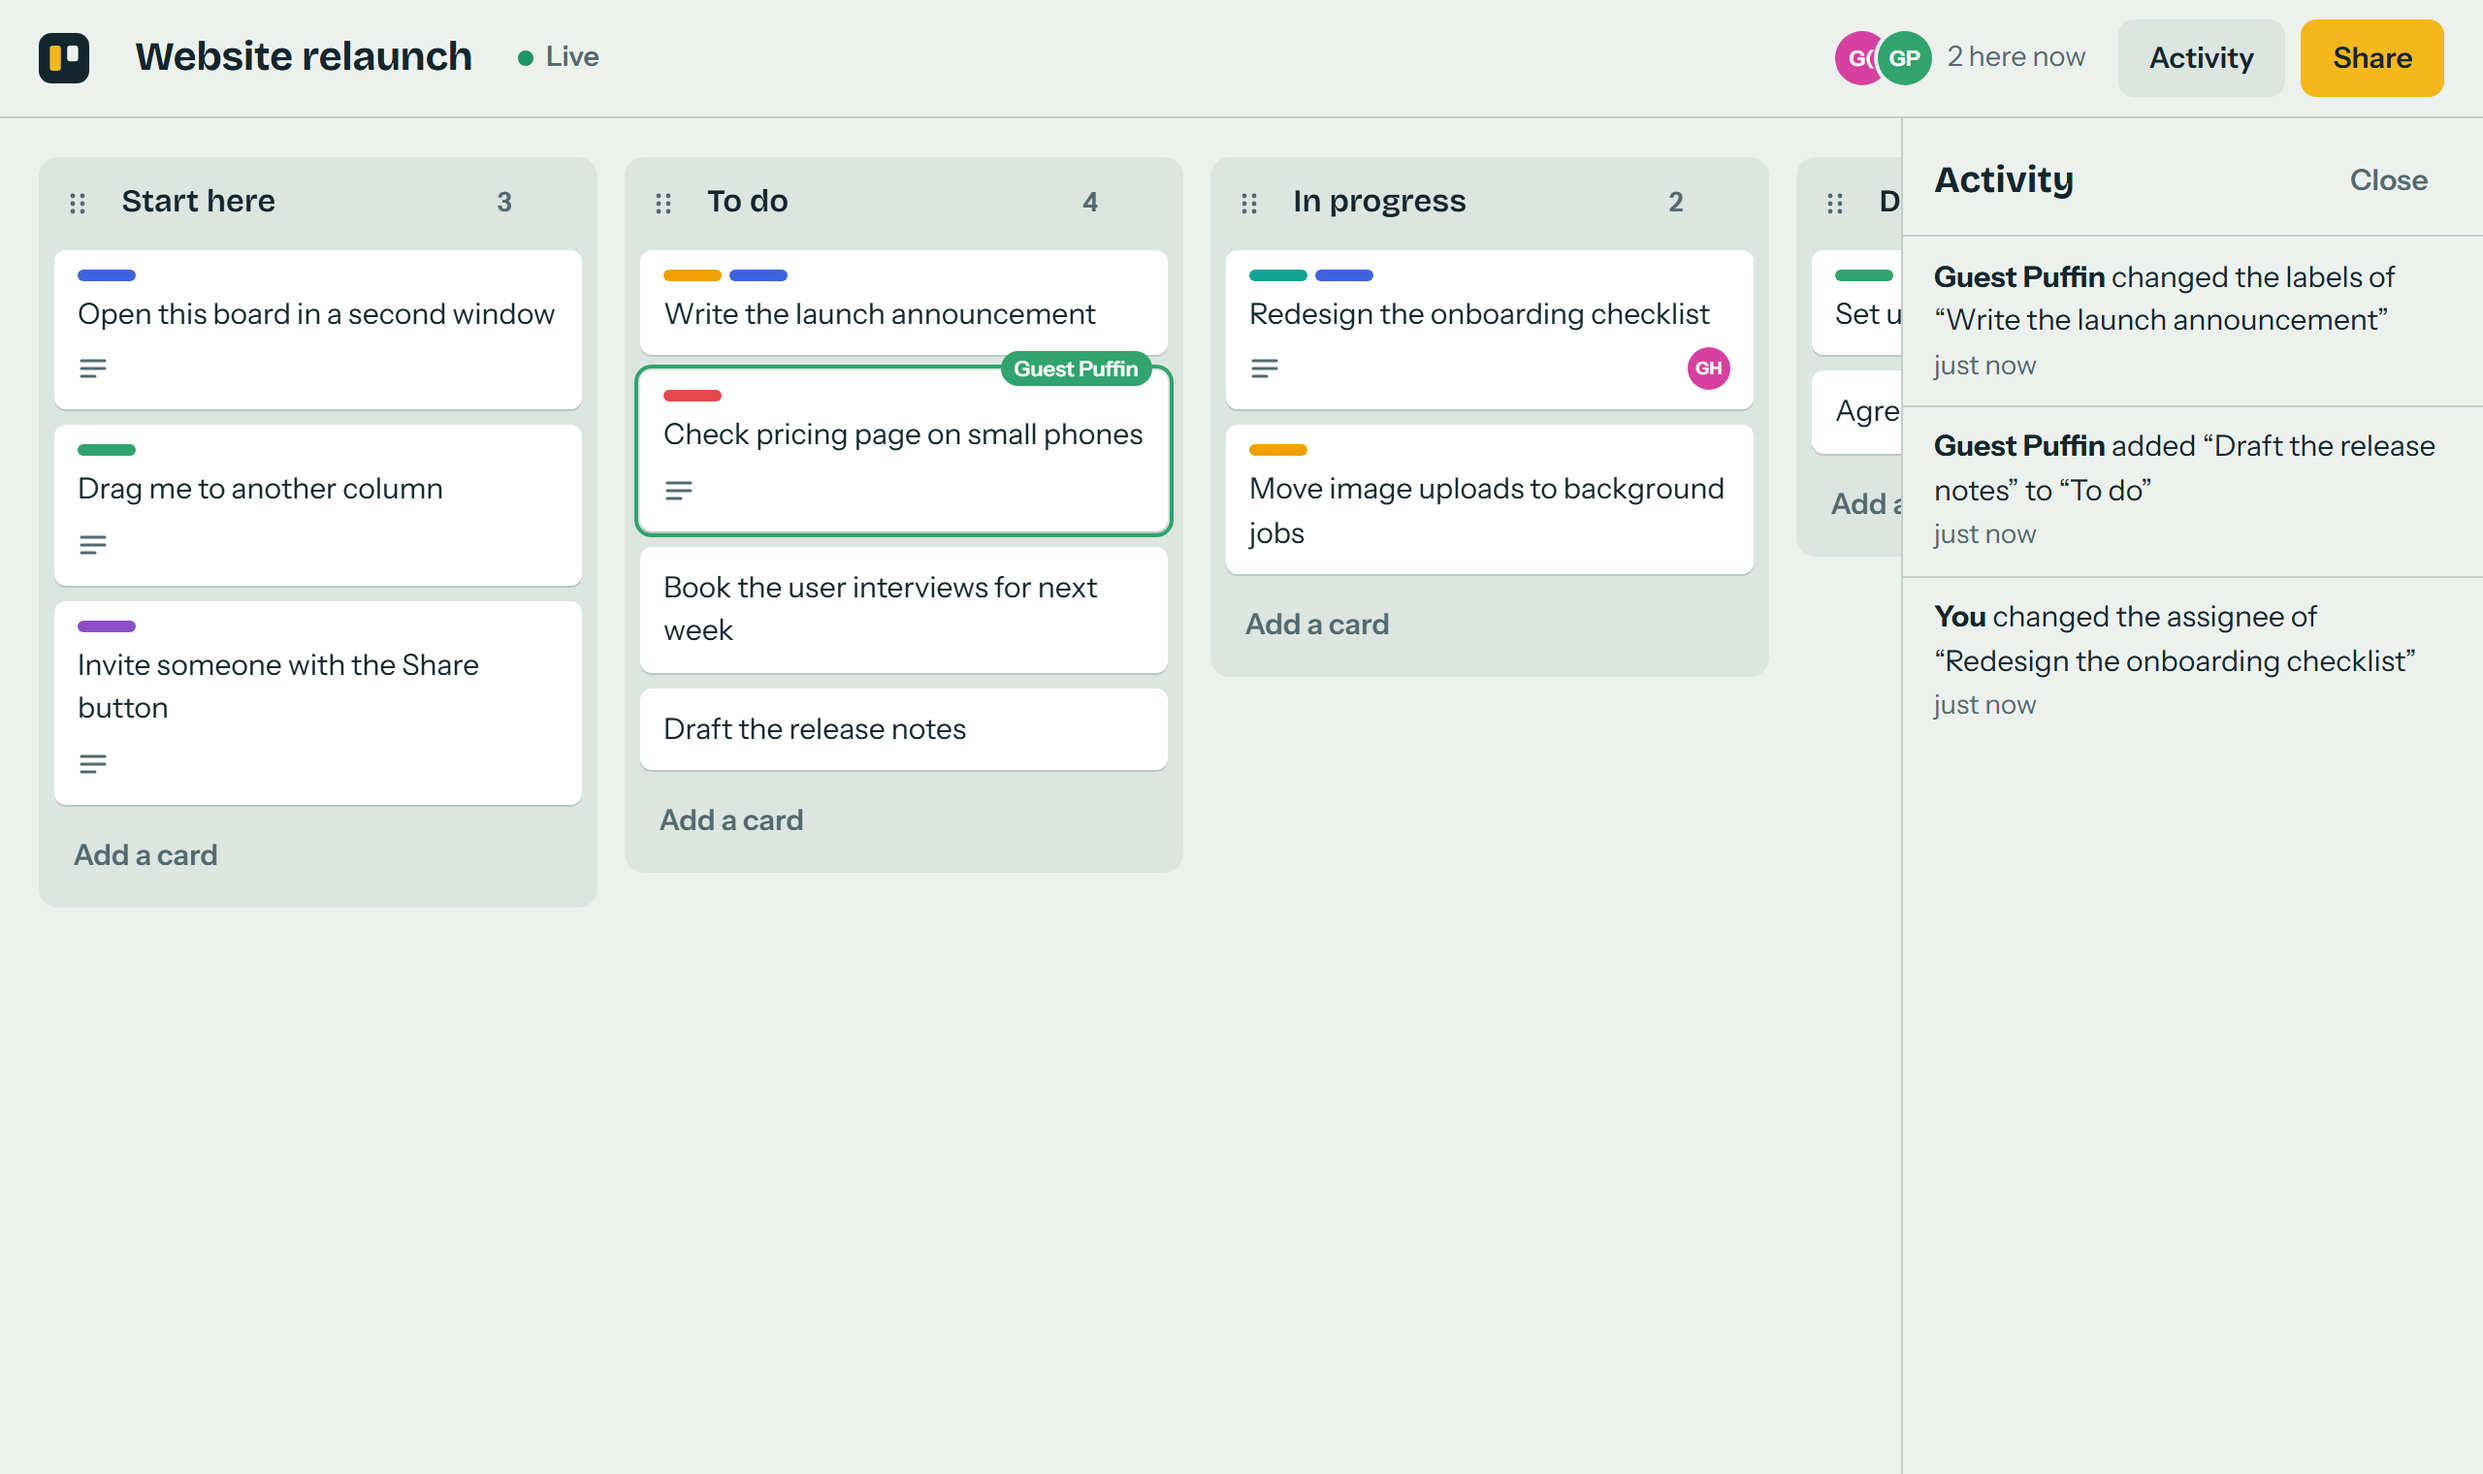
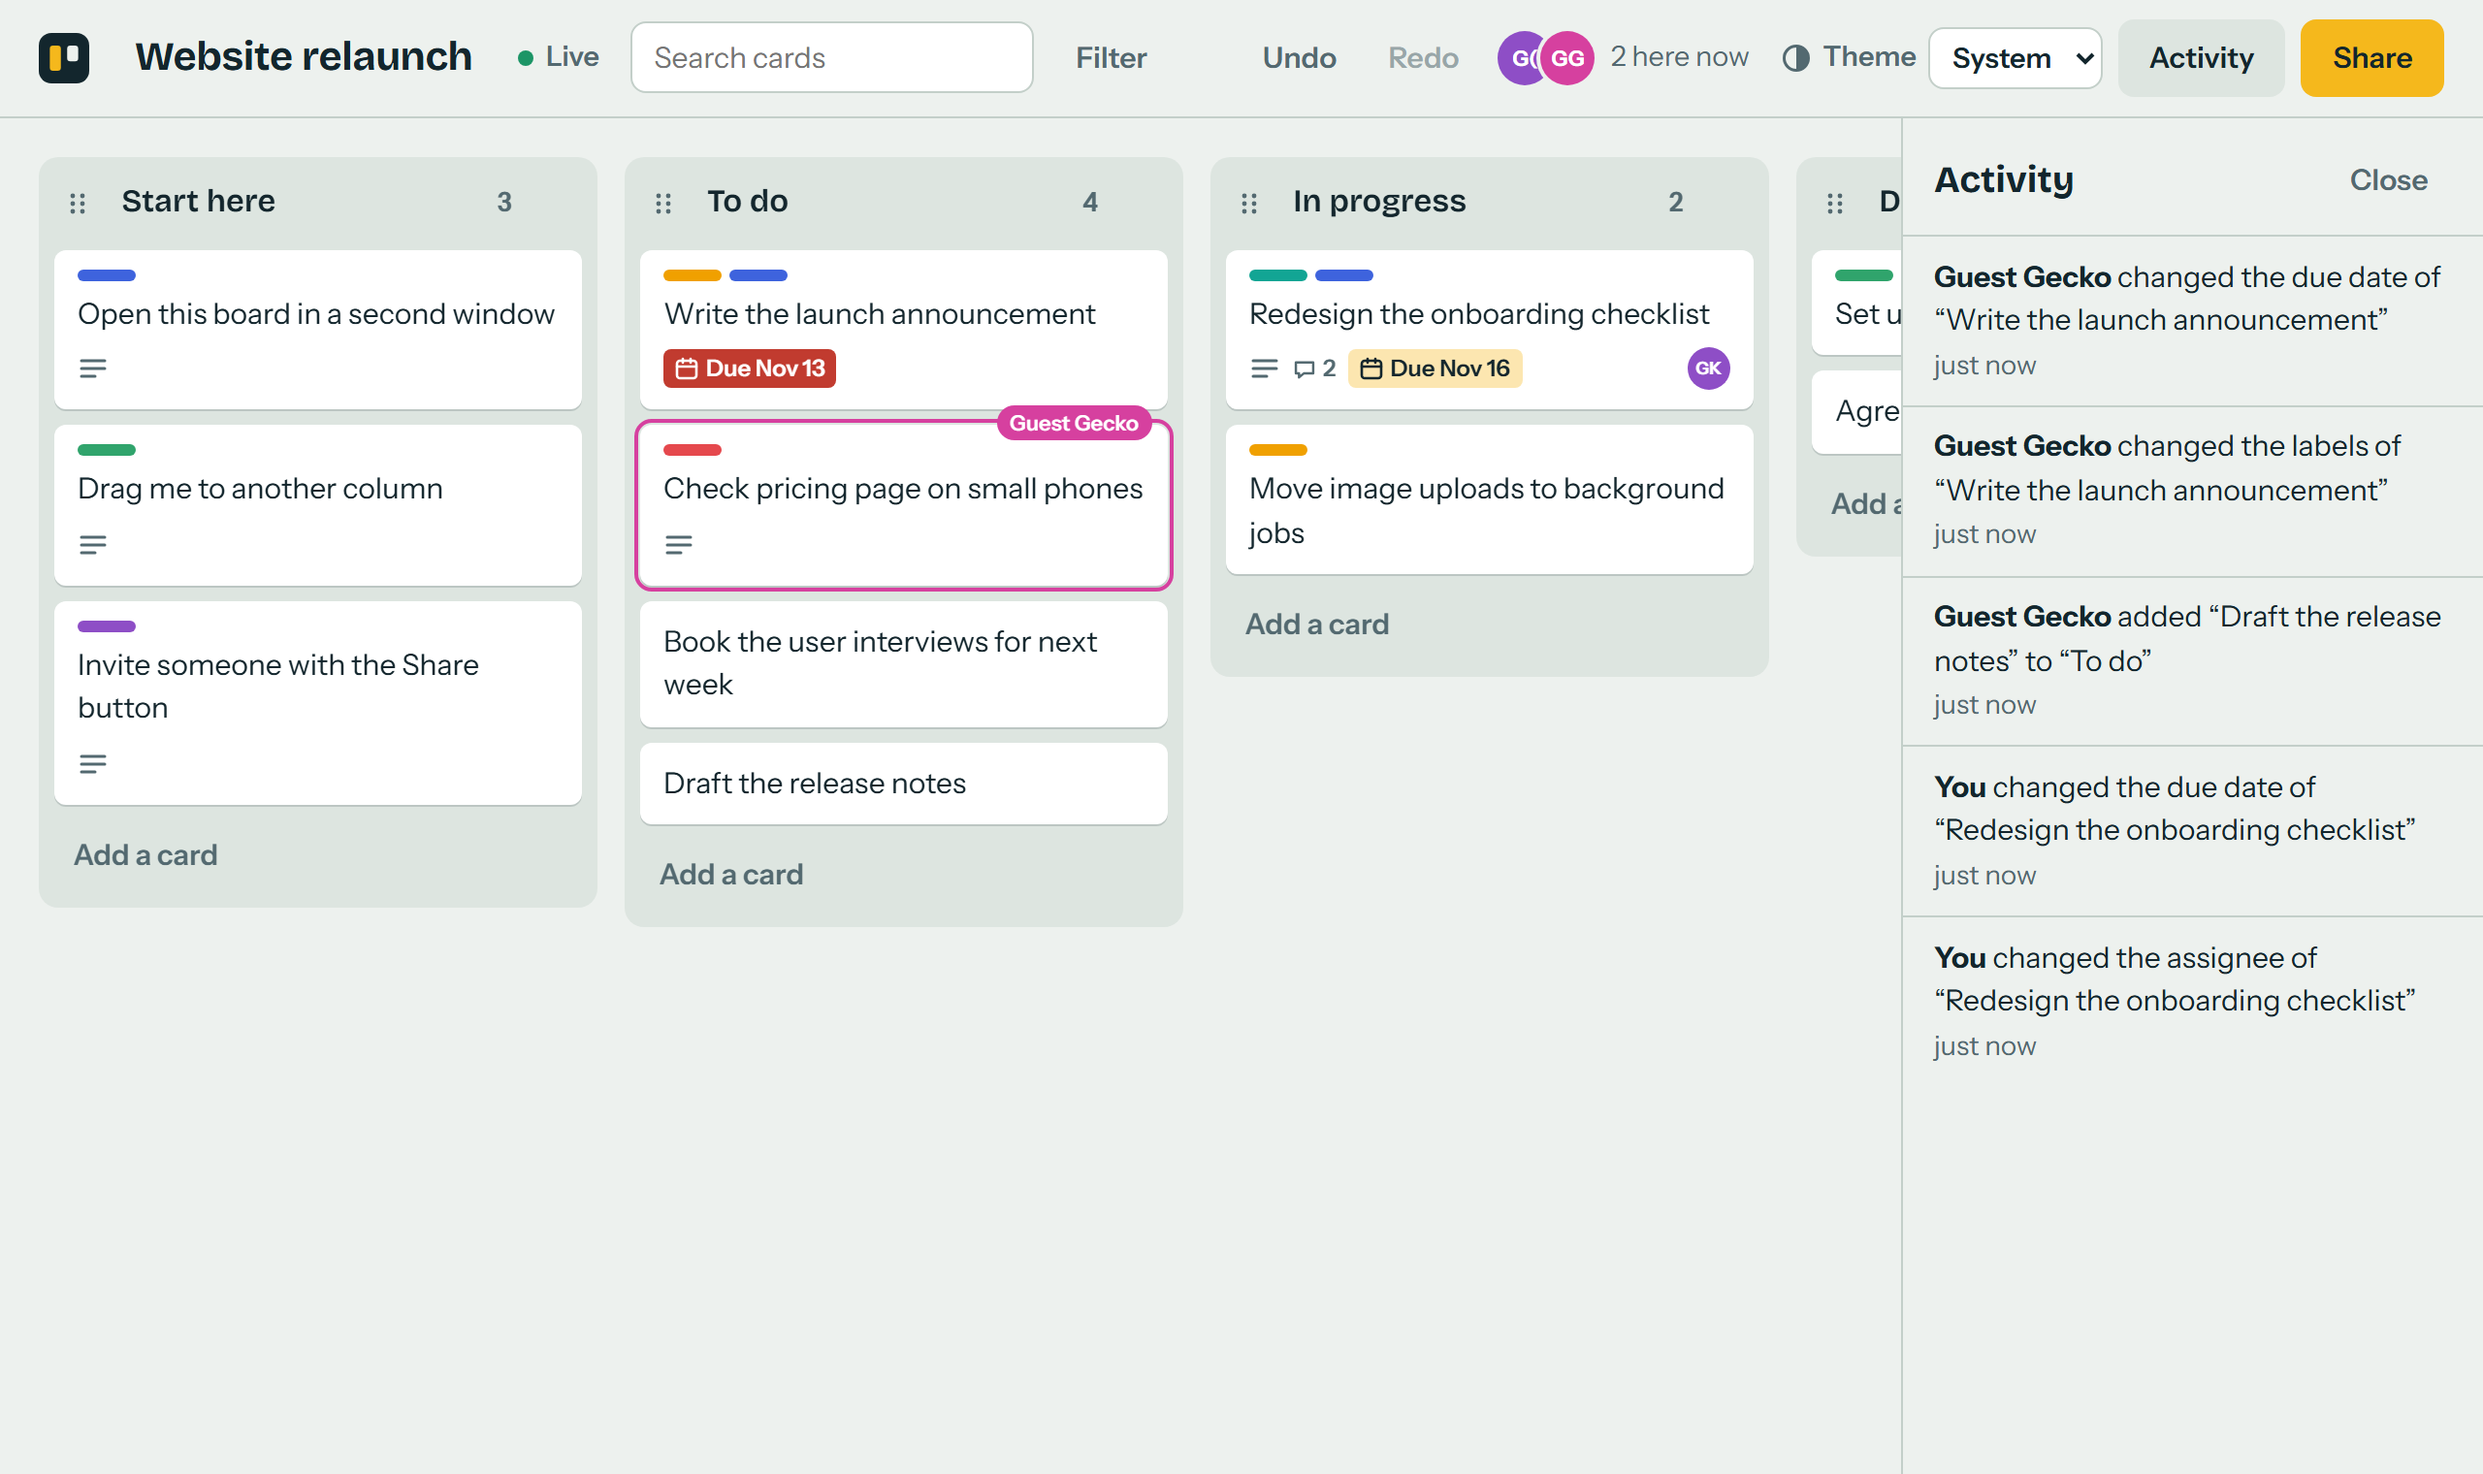
Update README for the new features and fix the flaky filter test
The filter test went back from /boards as soon as the URL changed. React
Router renders the new route in a transition, so going back that early
cancelled the navigation before the board unmounted, and the filter
(cleared on unmount) was still set. The test now waits for the boards
page to render. It failed 5 times in CI; 40 local repeats now pass.

The README describes the eight new features, explains that Render only
redeploys on push when connected through its GitHub app, and the
screenshot script now shows due dates, comments and the dark theme.

Claude-Session: https://claude.ai/code/session_013oPXVB3y3L8vaFaSDkpZXf

diff --git a/e2e/filter.spec.ts b/e2e/filter.spec.ts
@@ -121,7 +121,10 @@ test('label and assignee filters work together and clear in one go', async ({ pa
   await page.getByLabel('Search cards').fill('launch');
   await expect(page.locator('.card')).toHaveCount(2);
   await page.getByRole('link', { name: 'All boards' }).click();
-  await expect(page).toHaveURL(/\/boards$/);
+  // Wait for the boards page itself, not just the URL: React Router changes the URL
+  // first and renders the new route in a transition, so going back too early would
+  // cancel the navigation before the board ever unmounted.
+  await expect(page.getByRole('heading', { name: 'Your boards' })).toBeVisible();
   await page.goBack();
   await expect(page.locator('.card')).toHaveCount(10);
   await expect(page.getByLabel('Search cards')).toHaveValue('');

diff --git a/README.md b/README.md
@@ -4,7 +4,7 @@
 
 A kanban board that several people can edit at the same time. Move a card and everyone else on the board sees it land, along with your cursor and which card you have open.
 
-![Two people working on the same board, with the activity feed open](docs/board.png)
+![Two people working on the same board, with due dates, a comment count and the activity feed open](docs/board.png)
 
 ## Try it
 
@@ -26,12 +26,21 @@ Open http://localhost:5173, choose **Try it as a guest**, then open the same add
 - **Live collaboration.** Changes reach every open browser immediately. You see other people's cursors, who is on the board, and a coloured outline on any card someone else has open or is dragging.
 - **Drag and drop** for cards and columns, with mouse, touch or keyboard.
 - **Works through a dropped connection.** Your changes apply on your own screen straight away. If the connection drops you can keep working; the changes are sent when it returns, and anything the server refuses is rolled back with a message.
-- **Accounts and guests.** Email and password accounts, or one click to start as a guest. Boards are shared by invite link.
+- **Due dates.** A card can have a due date, shown on the card in your own date format. It turns amber when it is due within two days and red once it has passed.
+- **Comments.** Every card has a comment thread that updates live for everyone, and the card shows how many comments it has. Authors and the board owner can delete comments.
+- **Search and filters.** Search titles and descriptions (press `/` to jump to the search box), or filter by label and assignee. Your filter is yours alone: other people still see the whole board, and a card you drag while filtering lands where it looked for everyone.
+- **Undo and redo** (Ctrl+Z, Ctrl+Shift+Z or Ctrl+Y) for your own changes. Undo never reverts someone else's work, and other people see your undo happen live.
+- **Dark theme.** Choose System, Light or Dark. System follows your operating system's setting.
+- **Accounts and guests.** Email and password accounts, or one click to start as a guest. A guest can later create an account and keep every board they made.
+- **Sharing and members.** Boards are shared by invite link. The owner can remove people or reset the link so the old one stops working, and members can leave a board.
+- **Export and import.** Download a board as JSON (a full backup) or CSV (for spreadsheets), and import a JSON export as a new board.
 - **Activity feed** listing who changed what.
 
-| Start page | Editing a card |
+| Start page | A card with its due date and comments |
 | --- | --- |
-| ![Start page](docs/home.png) | ![Card dialog](docs/card.png) |
+| ![Start page](docs/home.png) | ![Card dialog with a due date and a comment thread](docs/card.png) |
+
+![The board in the dark theme, narrowed by a search, with column counts such as "1 of 4"](docs/dark.png)
 
 ## How it works
 
@@ -88,13 +97,17 @@ npm run typecheck
 
 - **Unit tests** cover the reducer, position keys, and the sync state, including a test that interleaves two clients' operations in different orders and checks both end up identical to the server.
 - **Integration tests** start the real server on a free port with an in-memory database and drive it with real WebSocket clients: simultaneous edits, rejected operations, reconnecting, persistence, access control.
-- **Browser tests** run two separate browser profiles against the production build: one drags a card and the other watches it move, and one makes a change while disconnected and it arrives after reconnecting.
+- **Browser tests** run two separate browser profiles against the production build: one drags a card and the other watches it move, and one makes a change while disconnected and it arrives after reconnecting. Each feature above also has its own browser test, for example a comment appearing live for the second person, or an undo that leaves the other person's change alone.
 
 GitHub Actions runs all of the above on every push.
 
 ## Deploying
 
 The included [`render.yaml`](render.yaml) deploys the app to [Render](https://render.com)'s free tier as a single web service: create a new Blueprint in Render and point it at this repository.
+
+Render redeploys on each push to `main` only if the repository is connected through Render's GitHub app. If the service was created without it, pushes do nothing and each deploy has to be started by hand (**Manual Deploy** in the Render dashboard). To check what is live, compare the commit shown on the service's **Events** page with the latest commit on `main`.
+
+To refresh the screenshots in `docs/`, start the app (`npm run build && npm start`) and run `node scripts/screenshots.mjs`.
 
 Two limits of free hosting to know about:
 
